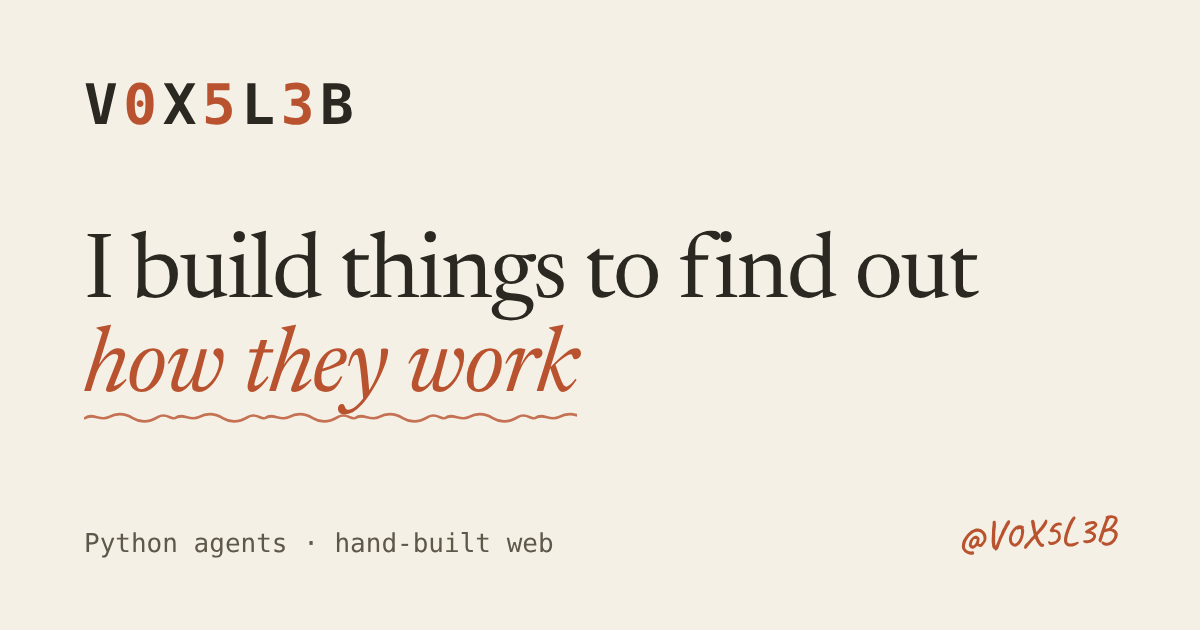
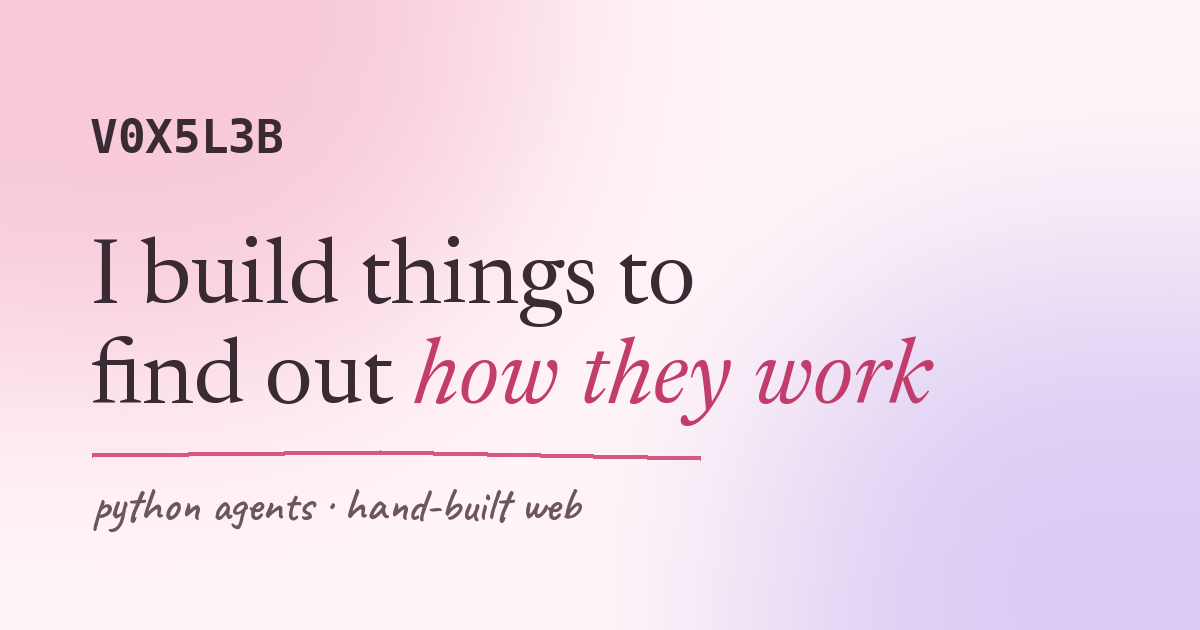
Softer, more feminine theme: blush/plum palette, pill shapes, hearts and flowers, sparkle trail

diff --git a/assets/css/main.css b/assets/css/main.css
@@ -4,26 +4,26 @@
 
 /* V0X5L3B — hand-written, no framework. */
 
-:root {                       /* warm dark */
-  --bg: #1f1e1b;
-  --bg-2: #262521;
-  --surface: #2a2924;
-  --surface-2: #32312b;
-  --line: #3d3b34;
-  --line-2: #55524a;
-  --text: #f3efe5;
-  --muted: #b8b1a1;
-  --dim: #8b8576;
-  --crimson: #b9532f;           /* terracotta (name kept: holiday themes override it) */
-  --crimson-t: #e8896a;         /* terracotta for text on dark */
-  --crimson-bg: rgba(217, 119, 87, .15);
-  --green: #6a9a63;
-  --lime: #b5c95a;
-  --code-k: #e8896a;
-  --code-f: #e6e1d4;
-  --code-c: #8b8576;
-  --note: #ecd98f;
-  --shadow: 0 1px 0 rgba(255,255,255,.04) inset, 0 12px 30px -18px rgba(0,0,0,.7);
+:root {                       /* plum night */
+  --bg: #1f1720;
+  --bg-2: #281d2a;
+  --surface: #2d2130;
+  --surface-2: #372938;
+  --line: #4a3750;
+  --line-2: #6a4f72;
+  --text: #fbeef3;
+  --muted: #d1b9c6;
+  --dim: #a68c9b;
+  --crimson: #e0709a;           /* rose (name kept: holiday themes override it) */
+  --crimson-t: #f59ab9;         /* rose for text on dark */
+  --crimson-bg: rgba(245, 154, 185, .14);
+  --green: #8fd0b0;
+  --lime: #b9a2f0;              /* lavender */
+  --code-k: #f59ab9;
+  --code-f: #f3e6ec;
+  --code-c: #a68c9b;
+  --note: #f7c6d8;
+  --shadow: 0 1px 0 rgba(255,255,255,.05) inset, 0 14px 34px -20px rgba(0,0,0,.7);
 
   --mono: ui-monospace, "JetBrains Mono", "SF Mono", SFMono-Regular, Menlo, Consolas, "Liberation Mono", monospace;
   --serif: "Newsreader", "Iowan Old Style", "Palatino Linotype", Palatino, "Book Antiqua", "Noto Serif", Georgia, serif;
@@ -36,26 +36,26 @@
   --r: 6px;
 }
 
-:root[data-theme="light"] {    /* warm paper */
-  --bg: #f5f0e6;
-  --bg-2: #eee6d6;
-  --surface: #fbf7ee;
-  --surface-2: #fffdf8;
-  --line: #ddd2bc;
-  --line-2: #c4b79d;
-  --text: #2b2822;
-  --muted: #5e584b;
-  --dim: #857d6c;
-  --crimson: #b9532f;
-  --crimson-t: #a8451f;
-  --crimson-bg: rgba(185, 83, 47, .10);
-  --green: #3f7a46;
-  --lime: #6b8a14;
-  --code-k: #a8451f;
-  --code-f: #2b2822;
-  --code-c: #857d6c;
-  --note: #f6e6a2;
-  --shadow: 0 1px 0 rgba(255,255,255,.7) inset, 0 12px 26px -20px rgba(70,50,20,.4);
+:root[data-theme="light"] {    /* blush paper */
+  --bg: #fff5f7;
+  --bg-2: #ffeaf0;
+  --surface: #fffafb;
+  --surface-2: #ffffff;
+  --line: #f3d5de;
+  --line-2: #e3b5c4;
+  --text: #3a2a33;
+  --muted: #6d5560;
+  --dim: #9a8189;
+  --crimson: #d6577f;
+  --crimson-t: #c23d6b;
+  --crimson-bg: rgba(214, 87, 127, .11);
+  --green: #3f8a68;
+  --lime: #7b5cc4;
+  --code-k: #c23d6b;
+  --code-f: #3a2a33;
+  --code-c: #9a8189;
+  --note: #ffe0ea;
+  --shadow: 0 1px 0 rgba(255,255,255,.8) inset, 0 14px 30px -22px rgba(150,60,100,.45);
 }
 
 *, *::before, *::after { box-sizing: border-box; }
@@ -345,11 +345,11 @@ a:hover { text-decoration-color: var(--crimson-t); }
 .hl { background: linear-gradient(100deg, transparent 0 1%, color-mix(in srgb, var(--crimson-t) 30%, transparent) 1% 97%, transparent 97%); padding: 0 .2em; margin: 0 -.2em; border-radius: .3em .7em .4em .6em; -webkit-box-decoration-break: clone; box-decoration-break: clone; color: var(--text); }
 
 /* sticky note with a bit of tape */
-.about__aside { position: relative; background: var(--note); color: #3b3322; border: 0; rotate: 1.4deg; padding: 26px 22px 20px; box-shadow: 0 14px 18px -14px rgba(0,0,0,.55), 0 1px 0 rgba(0,0,0,.06); }
+.about__aside { position: relative; background: var(--note); color: #4a2a38; border: 0; rotate: 1.4deg; padding: 26px 22px 20px; box-shadow: 0 14px 18px -14px rgba(0,0,0,.55), 0 1px 0 rgba(0,0,0,.06); }
 .about__aside::before { content: ""; position: absolute; top: -11px; left: 50%; width: 92px; height: 24px; margin-left: -46px; background: rgba(255,255,255,.45); box-shadow: 0 1px 0 rgba(0,0,0,.08); rotate: -2.5deg; border-radius: 2px; }
-.about__aside .mini { font: 600 1.5rem/1.1 var(--hand); letter-spacing: 0; text-transform: none; color: #3b3322; margin-bottom: 10px; }
-.about__aside .arrows li { color: #3b3322; font: 600 1.3rem/1.2 var(--hand); }
-.about__aside .arrows li::before { color: #a8451f; font-family: var(--hand); content: "\2192"; }
+.about__aside .mini { font: 600 1.5rem/1.1 var(--hand); letter-spacing: 0; text-transform: none; color: #4a2a38; margin-bottom: 10px; }
+.about__aside .arrows li { color: #4a2a38; font: 600 1.3rem/1.2 var(--hand); }
+.about__aside .arrows li::before { color: var(--crimson-t); font-family: var(--hand); content: "\2192"; }
 
 /* quieter chrome so the paper feels like paper */
 .panel__bar { background: color-mix(in srgb, var(--surface-2) 70%, var(--surface)); }

diff --git a/assets/css/soft.css b/assets/css/soft.css
@@ -1,0 +1,36 @@
+/*
+ * Soft & pretty layer: blush palette details, rounder shapes, little flowers and hearts.
+ * Loaded last. Delete this file (and its <link>) to go back to the plain shapes.
+ */
+:root { --wob: 20px 16px 22px 17px / 17px 22px 16px 20px; --r: 999px; accent-color: var(--crimson-t); scrollbar-color: var(--line-2) transparent; }
+::selection { background: var(--crimson-bg); color: var(--text); }
+
+body { background-image: radial-gradient(1100px 520px at 12% -8%, color-mix(in srgb, var(--crimson-t) 12%, transparent), transparent 70%), radial-gradient(900px 480px at 100% 12%, color-mix(in srgb, var(--lime) 12%, transparent), transparent 70%); background-attachment: fixed; }
+
+/* pill buttons and tags, soft cards */
+.btn, .chip, .link-btn, .tags li, .icon-btn { border-radius: 999px; }
+.btn, .link-btn { padding-inline: 22px; }
+.card, .panel, .lk, .exp, .skills, .dlg, .empty { border-radius: 22px; }
+.card::before { display: none; }
+.card { border-top: 3px solid var(--acc); }
+.lk, .exp, .card, .panel, .skills { box-shadow: var(--shadow); }
+.about__aside { border-radius: 8px 20px 10px 18px; }
+
+/* section labels with a tiny flower */
+.label::before { content: "✿"; color: var(--crimson-t); font-size: 1rem; line-height: 1; margin-right: -2px; }
+.label span { font-family: var(--hand); font-size: 1.25rem; letter-spacing: 0; }
+
+/* nicer sticky tape */
+.about__aside::before { background: repeating-linear-gradient(45deg, color-mix(in srgb, var(--crimson-t) 30%, #fff) 0 6px, color-mix(in srgb, #fff 70%, var(--crimson-t)) 6px 12px) !important; opacity: .75; border-radius: 3px; }
+
+/* hero doodles: heart + flower */
+.doodle--ring { fill: color-mix(in srgb, var(--crimson-t) 22%, transparent); stroke-width: 2; width: 54px; right: 5%; bottom: 20%; opacity: .6; }
+.doodle--flower { right: 17%; top: 5%; width: 56px; fill: color-mix(in srgb, var(--lime) 20%, transparent); stroke: var(--lime); stroke-width: 2; opacity: .6; animation-duration: 12s; }
+
+/* cursor sparkle trail */
+.trail { position: fixed; z-index: 80; pointer-events: none; color: var(--crimson-t); font-size: calc(14px * var(--s, 1)); line-height: 1; translate: -50% -50%; animation: trailfade 1.1s ease-out forwards; }
+@keyframes trailfade { to { opacity: 0; transform: translate(var(--dx, 0), 34px) rotate(40deg) scale(.4); } }
+@media (prefers-reduced-motion: reduce) { .trail { display: none; } }
+
+/* footer */
+.foot__id .muted::after { content: " ♡"; color: var(--crimson-t); }

diff --git a/assets/js/motion.js b/assets/js/motion.js
@@ -158,11 +158,26 @@ if (!reduce) {
     hero.append(
       svg("svg", { class: "doodle doodle--spark", viewBox: "0 0 40 40", "aria-hidden": "true" }, [svg("path", { d: "M20 3C21 14 26 19 37 20 26 21 21 26 20 37 19 26 14 21 3 20 14 19 19 14 20 3Z" })]),
       svg("svg", { class: "doodle doodle--squig", viewBox: "0 0 110 24", "aria-hidden": "true" }, [svg("path", { d: "M3 14C12 2 20 22 30 12S46 2 55 13s17 8 26-2 17 3 26 1" })]),
-      svg("svg", { class: "doodle doodle--ring", viewBox: "0 0 60 60", "aria-hidden": "true" }, [svg("path", { d: "M32 6C48 7 56 22 52 37 48 52 30 56 17 48 4 40 5 20 18 11 24 7 31 6 40 9" })]),
+      svg("svg", { class: "doodle doodle--ring", viewBox: "0 0 40 40", "aria-hidden": "true" }, [svg("path", { d: "M20 35C7 25 3 15 9 9c5-5 11-2 11 3 0-5 6-8 11-3 6 6 2 16-11 26Z" })]),
+      svg("svg", { class: "doodle doodle--flower", viewBox: "0 0 40 40", "aria-hidden": "true" }, [...[0, 72, 144, 216, 288].map((a) => svg("circle", { cx: 20 + 9 * Math.sin(a * Math.PI / 180), cy: 20 - 9 * Math.cos(a * Math.PI / 180), r: 6 })), svg("circle", { cx: 20, cy: 20, r: 3.2 })]),
     );
   }
 
   if (fine) {
+    /* ---- a little trail of sparkles and hearts ---- */
+    const bits = ["✦", "♡", "✧", "✿"];
+    let lastT = 0, lx = 0, ly = 0;
+    addEventListener("pointermove", (e) => {
+      const now = performance.now();
+      if (now - lastT < 70 || Math.hypot(e.clientX - lx, e.clientY - ly) < 22) return;
+      lastT = now; lx = e.clientX; ly = e.clientY;
+      const b = el("span", "trail", bits[(Math.random() * bits.length) | 0]);
+      b.setAttribute("aria-hidden", "true");
+      b.style.cssText = `left:${e.clientX}px;top:${e.clientY}px;--dx:${(Math.random() * 40 - 20) | 0}px;--s:${(0.7 + Math.random() * 0.7).toFixed(2)}`;
+      document.body.appendChild(b);
+      b.addEventListener("animationend", () => b.remove());
+    }, { passive: true });
+
     /* ---- cursor glow (eased) ---- */
     const g = el("div", "glow");
     g.setAttribute("aria-hidden", "true");

diff --git a/404.html b/404.html
@@ -2,6 +2,6 @@
 <html lang="en"><head><meta charset="utf-8"><meta name="viewport" content="width=device-width,initial-scale=1">
 <meta http-equiv="Content-Security-Policy" content="default-src 'none'; style-src 'unsafe-inline'; img-src 'self'; base-uri 'none'; form-action 'none'; object-src 'none'"><meta name="referrer" content="strict-origin-when-cross-origin"><title>404 — V0X5L3B</title><meta name="robots" content="noindex">
 <link rel="icon" href="/assets/img/favicon.svg" type="image/svg+xml">
-<style>:root{color-scheme:light}body{margin:0;min-height:100vh;display:grid;place-items:center;background:#f5f0e6;color:#2b2822;font:16px/1.6 ui-monospace,Menlo,Consolas,monospace;text-align:center;padding:24px}
-h1{font:400 clamp(3rem,10vw,6rem)/1 "Iowan Old Style",Palatino,Georgia,serif;margin:0 0 12px}h1 i{color:#b9532f}p{color:#5e584b;margin:0 0 24px}a{color:#2b2822;border:1.5px solid #c4b79d;padding:12px 18px;border-radius:9px 6px 11px 7px/7px 11px 6px 9px;text-decoration:none}a:hover{border-color:#b9532f}</style></head>
+<style>:root{color-scheme:light}body{margin:0;min-height:100vh;display:grid;place-items:center;background:#fff5f7;color:#3a2a33;font:16px/1.6 ui-monospace,Menlo,Consolas,monospace;text-align:center;padding:24px}
+h1{font:400 clamp(3rem,10vw,6rem)/1 "Iowan Old Style",Palatino,Georgia,serif;margin:0 0 12px}h1 i{color:#d6577f}p{color:#6d5560;margin:0 0 24px}a{color:#3a2a33;border:1.5px solid #e3b5c4;padding:12px 18px;border-radius:9px 6px 11px 7px/7px 11px 6px 9px;text-decoration:none}a:hover{border-color:#d6577f}</style></head>
 <body><main><h1>4<i>0</i>4</h1><p>No such file. It either moved or never existed.</p><a href="/">← back to V0X5L3B</a></main></body></html>

diff --git a/index.html b/index.html
@@ -7,7 +7,7 @@
   <meta name="referrer" content="strict-origin-when-cross-origin">
   <title>V0X5L3B — experimental developer</title>
   <meta name="description" content="V0X5L3B (@V0X5L3B): a self-directed developer experimenting with Python AI agents and hand-built web interfaces.">
-  <meta name="theme-color" content="#f5f0e6">
+  <meta name="theme-color" content="#fff5f7">
   <link rel="canonical" href="https://v0x5l3b.is-a.dev/">
 
   <meta property="og:type" content="website">
@@ -44,6 +44,7 @@
   <link rel="stylesheet" href="assets/css/main.css">
   <link rel="stylesheet" href="assets/css/holidays.css">
   <link rel="stylesheet" href="assets/css/motion.css">
+  <link rel="stylesheet" href="assets/css/soft.css">
 </head>
 <body>
   <div class="intro" id="intro" aria-hidden="true">

diff --git a/assets/js/main.js b/assets/js/main.js
@@ -37,7 +37,7 @@ const themeBtn = $("#themeBtn");
 function setTheme(t, persist = true) {
   root.setAttribute("data-theme", t);
   const meta = $('meta[name="theme-color"]');
-  if (meta) meta.setAttribute("content", t === "light" ? "#f5f0e6" : "#1f1e1b");
+  if (meta) meta.setAttribute("content", t === "light" ? "#fff5f7" : "#1f1720");
   themeBtn.setAttribute("aria-pressed", String(t === "light"));
   themeBtn.setAttribute("aria-label", t === "light" ? "Switch to dark theme" : "Switch to light theme");
   if (persist) store.set("v0x-theme", t);
